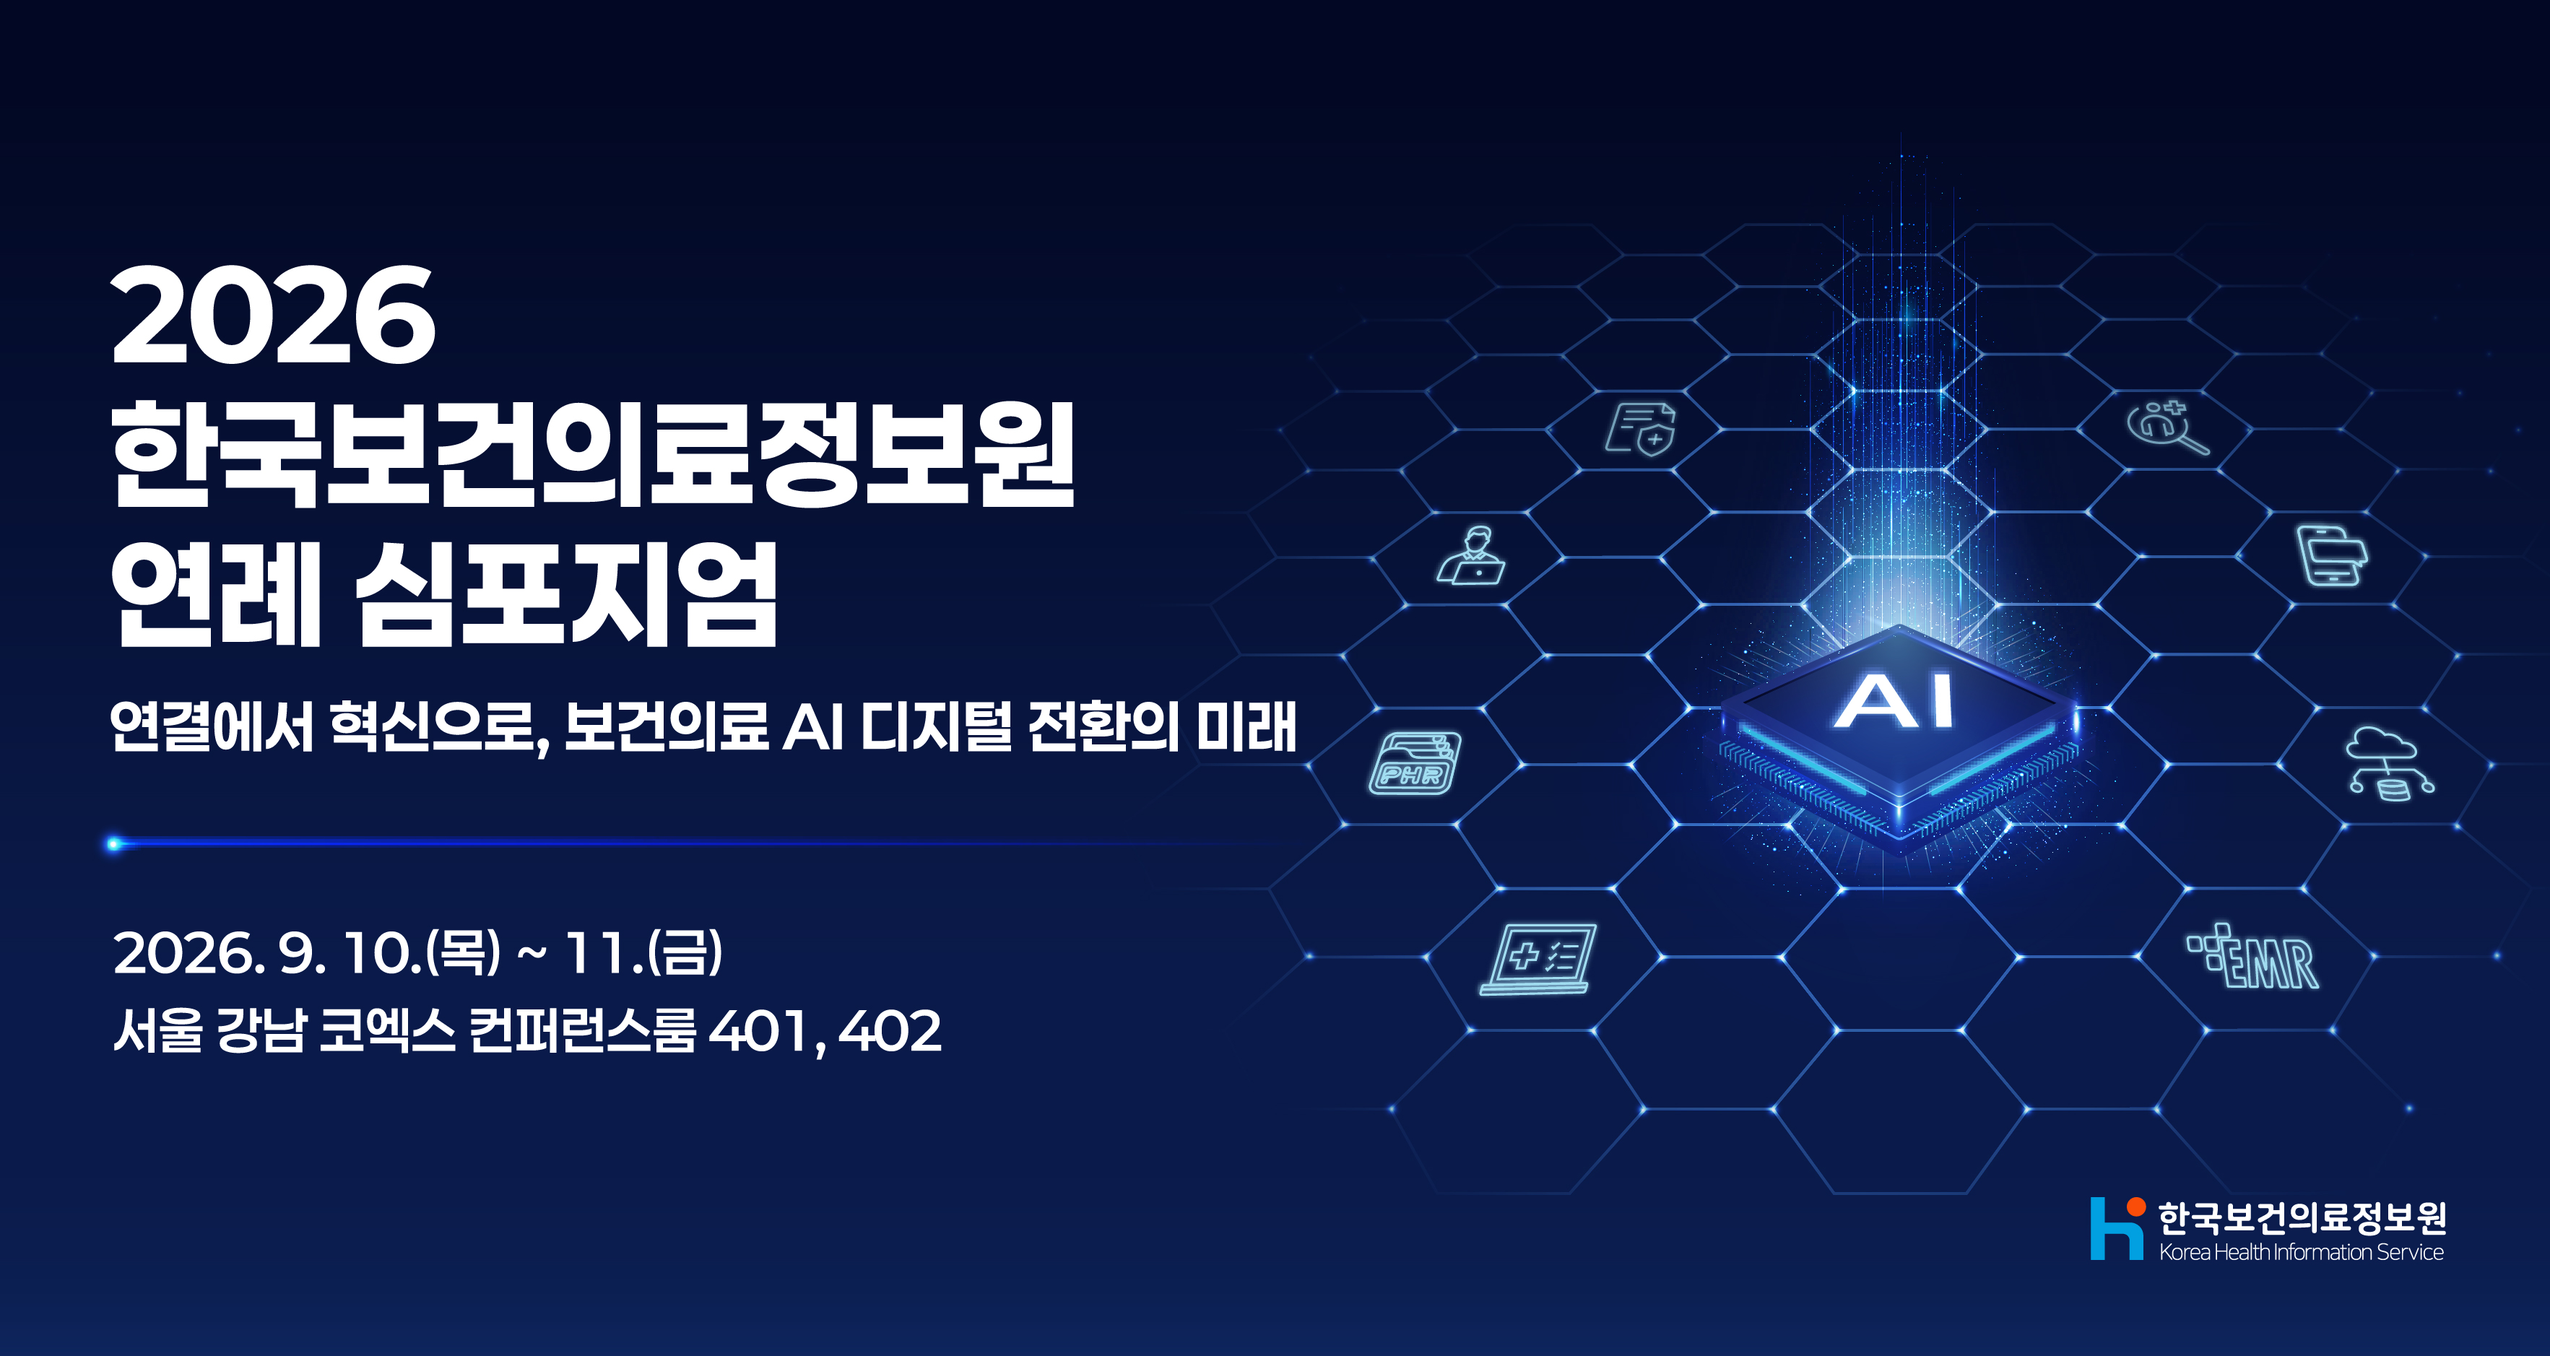
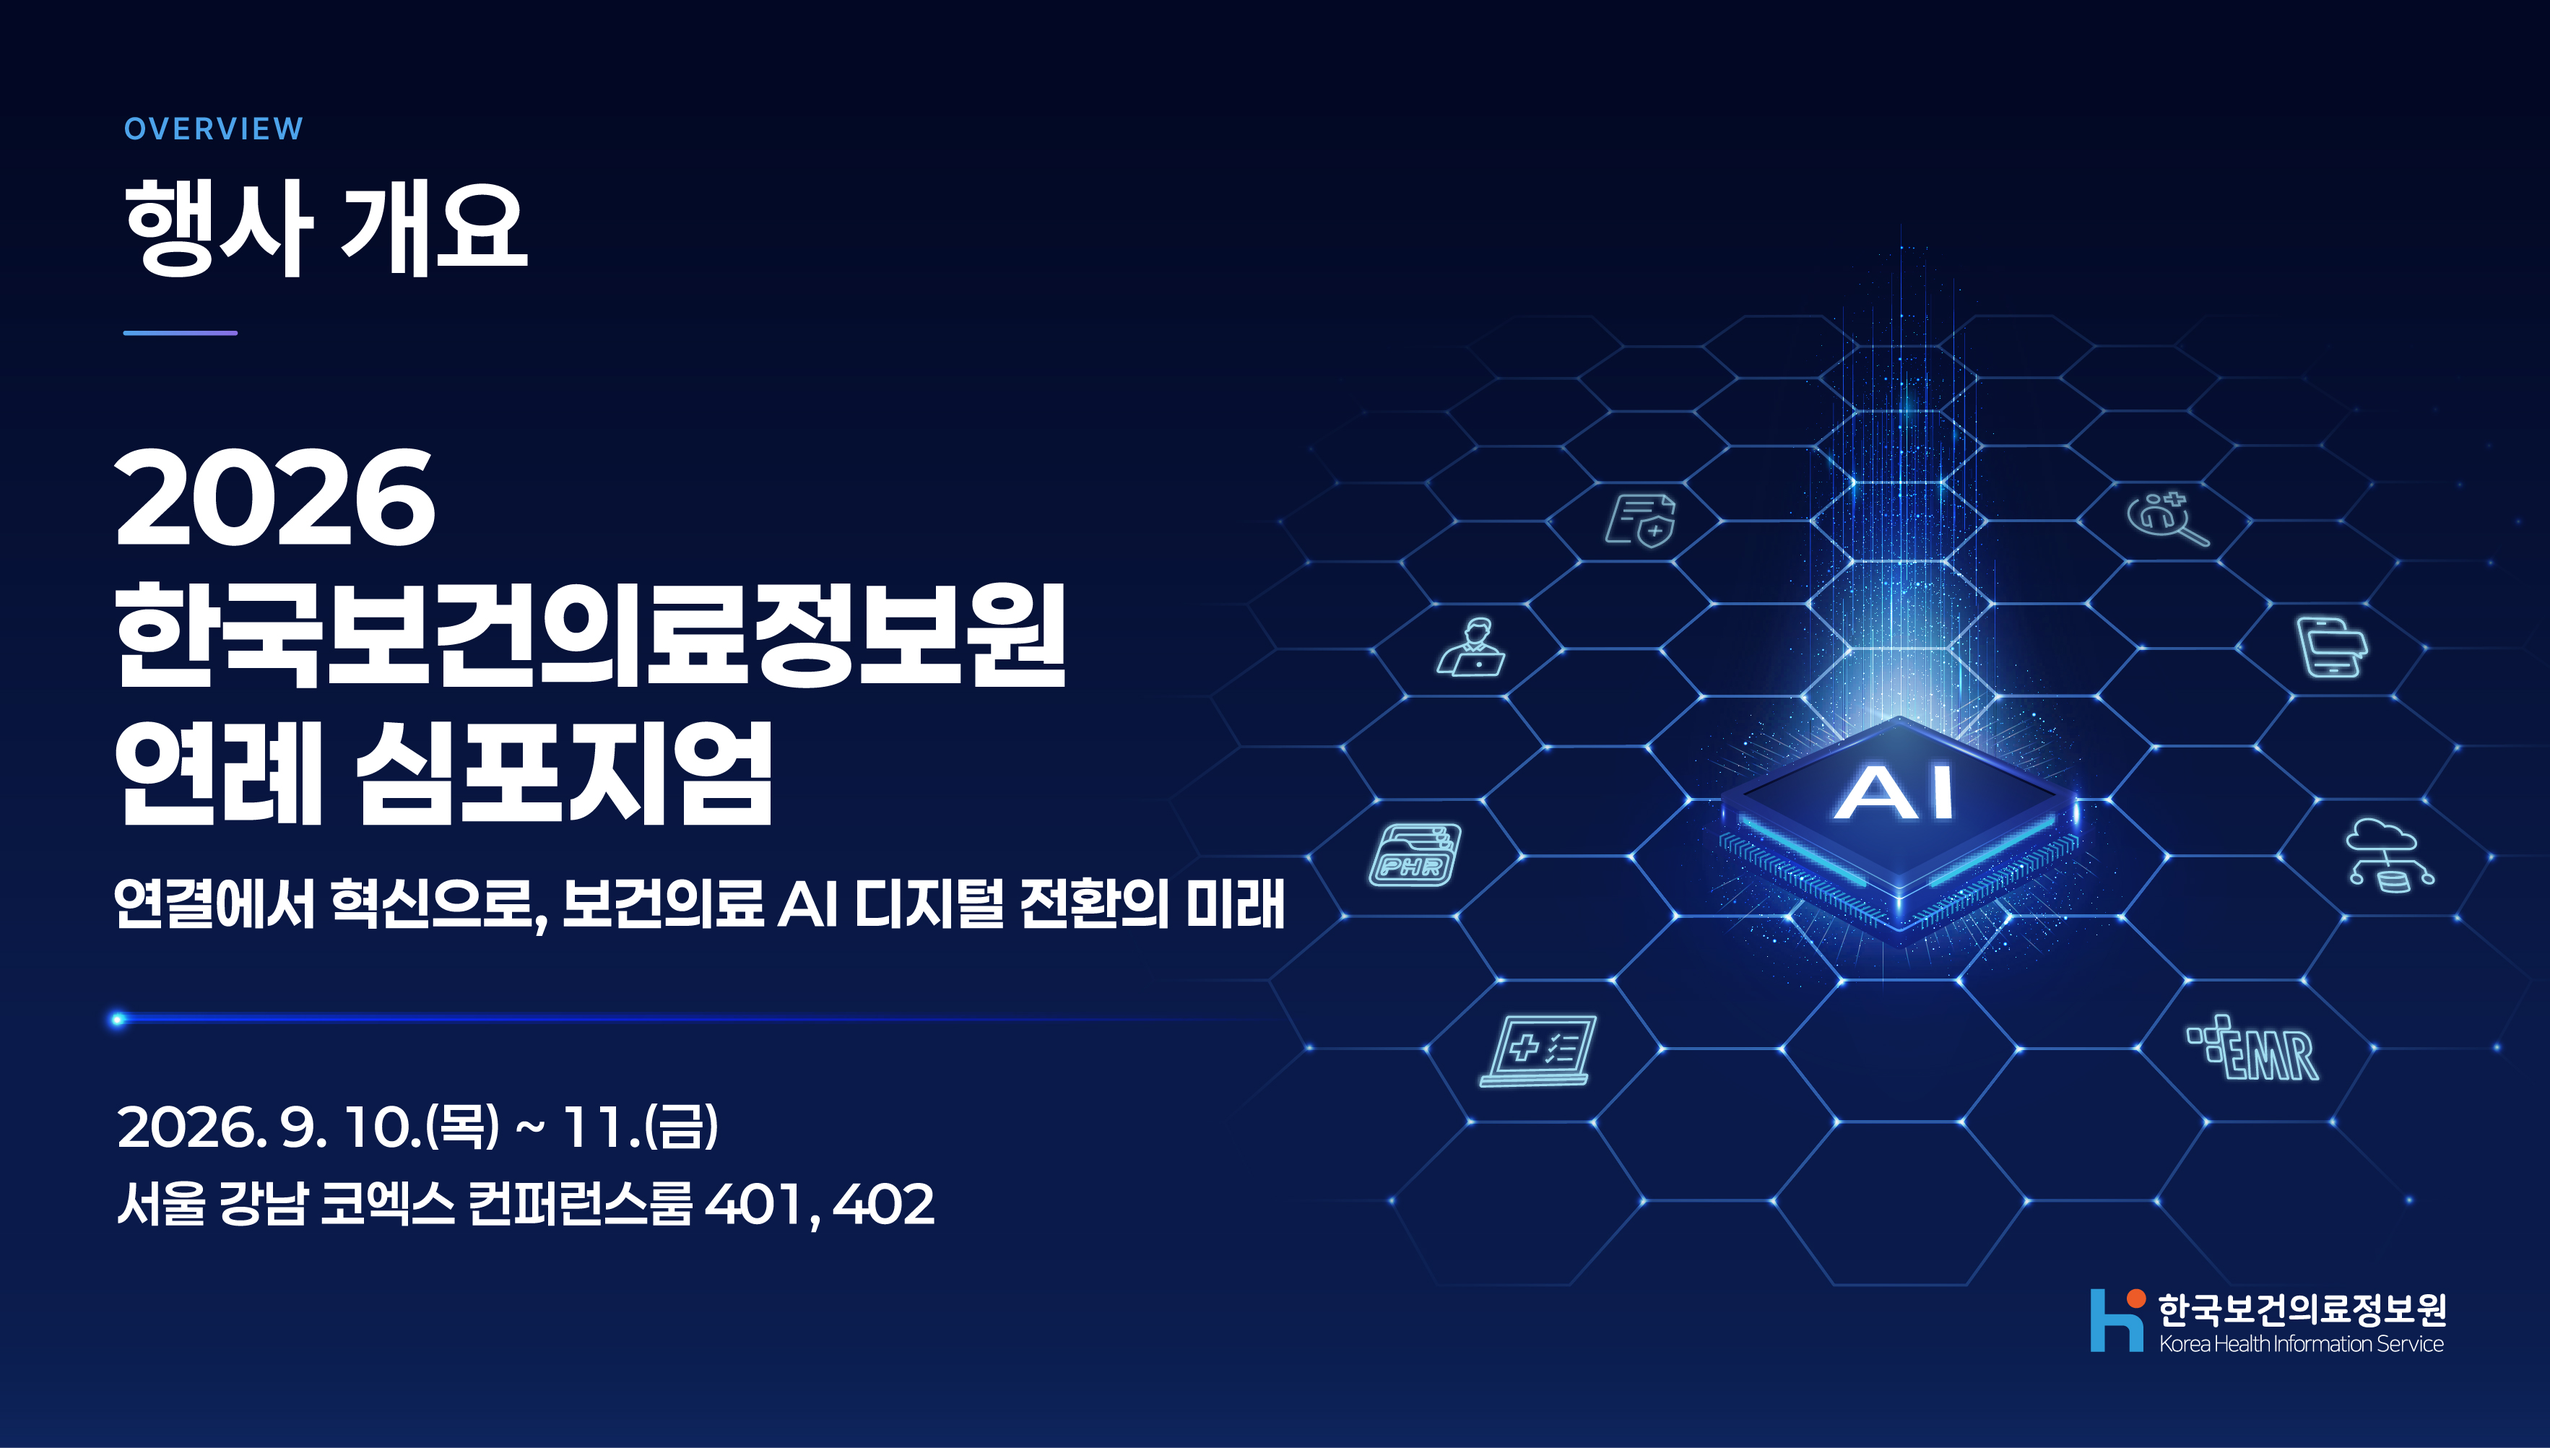
fix: join section images and update day 2 track 1 time

diff --git a/src/components/EventOverview.tsx b/src/components/EventOverview.tsx
@@ -1,5 +1,4 @@
 import Image from "next/image";
-import { Container } from "./ui/Container";
 
 const OVERVIEW_ALT =
   "2026 한국보건의료정보원 연례 심포지엄. 연결에서 혁신으로, 보건의료 AI 디지털 전환의 미래. 2026년 9월 10일 목요일부터 11일 금요일까지 서울 강남 코엑스 컨퍼런스룸 401·402에서 개최.";
@@ -9,31 +8,19 @@ export function EventOverview() {
     <section
       id="overview"
       aria-labelledby="overview-heading"
-      className="relative overflow-hidden section-pad"
+      className="m-0 scroll-mt-24 p-0"
     >
-      <div
-        className="absolute inset-0 -z-10"
-        style={{
-          backgroundImage:
-            "linear-gradient(135deg, #04081c 0%, #0a1f4a 55%, #123a70 100%)",
-        }}
-        aria-hidden
+      <h2 id="overview-heading" className="sr-only">
+        행사 개요
+      </h2>
+      <Image
+        src="/images/overview/event-overview.jpg"
+        alt={OVERVIEW_ALT}
+        width={3531}
+        height={2005}
+        sizes="100vw"
+        className="block h-auto w-full object-contain"
       />
-      <div className="grain-overlay absolute inset-0 -z-10" aria-hidden />
-
-      <Container>
-        <h2 id="overview-heading" className="sr-only">
-          행사 개요
-        </h2>
-        <Image
-          src="/images/overview/event-overview.jpg"
-          alt={OVERVIEW_ALT}
-          width={3531}
-          height={1878}
-          sizes="(max-width: 767px) calc(100vw - 48px), (max-width: 1199px) calc(100vw - 80px), 1120px"
-          className="block h-auto w-full object-contain"
-        />
-      </Container>
     </section>
   );
 }

diff --git a/src/components/Program.tsx b/src/components/Program.tsx
@@ -1,5 +1,4 @@
 import Image from "next/image";
-import { Container } from "./ui/Container";
 
 const PROGRAM_ALT =
   "2026 한국보건의료정보원 연례 심포지엄 전체 프로그램 일정표. 9월 10일과 11일, 코엑스 401호·402호의 세션별 시간, 발표와 토론 일정.";
@@ -9,23 +8,19 @@ export function Program() {
     <section
       id="program"
       aria-labelledby="program-heading"
-      className="on-light section-pad bg-[var(--color-surface)]"
+      className="m-0 scroll-mt-24 p-0"
     >
-      <Container>
-        <h2 id="program-heading" className="sr-only">
-          프로그램
-        </h2>
-        <div className="mx-auto w-full max-w-[1120px]">
-          <Image
-            src="/images/program/program-schedule.jpg"
-            alt={PROGRAM_ALT}
-            width={4961}
-            height={19910}
-            sizes="(max-width: 767px) calc(100vw - 48px), (max-width: 1199px) calc(100vw - 80px), 1120px"
-            className="block h-auto w-full object-contain"
-          />
-        </div>
-      </Container>
+      <h2 id="program-heading" className="sr-only">
+        프로그램
+      </h2>
+      <Image
+        src="/images/program/program-schedule.jpg"
+        alt={PROGRAM_ALT}
+        width={4961}
+        height={23726}
+        sizes="100vw"
+        className="block h-auto w-full object-contain"
+      />
     </section>
   );
 }

diff --git a/src/lib/constants.ts b/src/lib/constants.ts
@@ -218,6 +218,8 @@ export const PROGRAM: ProgramDay[] = [
         duration: "(100분)",
         track1: {
           title: "AI시대 글로벌 보건의료 표준과 상호운용성 전략",
+          time: "14:40 ~ 16:40",
+          duration: "(120분)",
           chair: "양광모 교수",
         },
         track2: {
